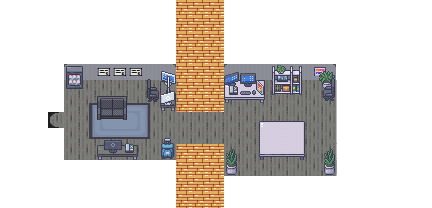
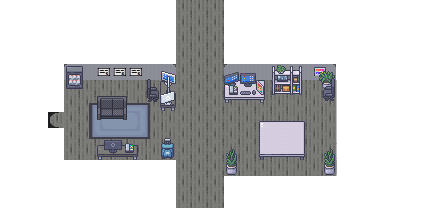
Fix stairwell floor art and restore original ground layer data
The stairwell was painted with spritesheet tile 67 (orange brick), which
does not match the room art. Reuse the existing grey hallway floor from
map.png instead, and leave the Tiled ground layer as it was.

Claude-Session: https://claude.ai/code/session_01Fy9jAmJNi12SP8qyhpxyku

Changed region(s): [[0.3912, 0.0, 0.5417, 0.5481], [0.3912, 0.6923, 0.5417, 1.0]]

diff --git a/src/constants.js b/src/constants.js
@@ -3,6 +3,7 @@ export const scaleFactor = 4;
 // Floors stack vertically and repeat forever in both directions.
 // Every floor must be the same size and leave the stairwell (tile columns
 // 11-13) open on its top and bottom edge so any floor can sit on any other.
+// The PNG is the art; the JSON supplies the `boundaries` and `spawnpoints` layers.
 // Add a floor by dropping its PNG + Tiled JSON in /public and listing it here.
 export const floors = [
   { name: "Home", sprite: "./map.png", map: "./map.json" },
